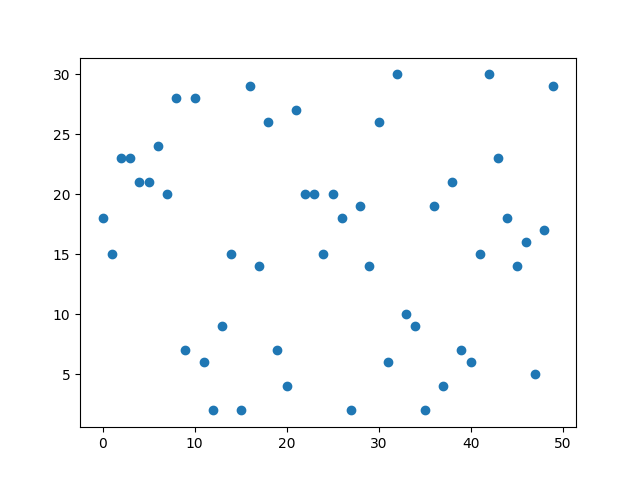
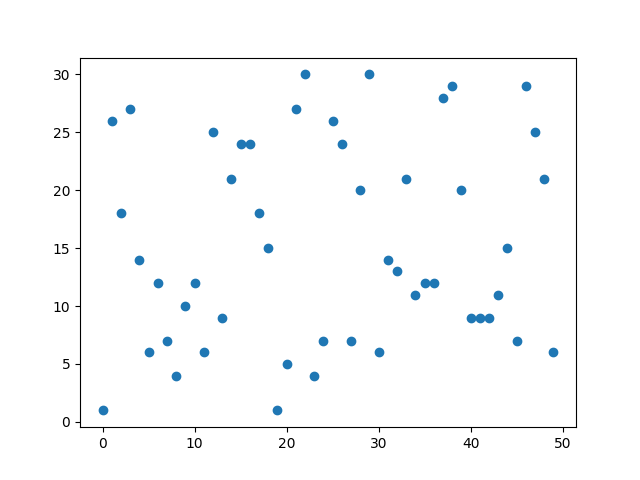
working figure post

diff --git a/app/templates/index.html b/app/templates/index.html
@@ -24,7 +24,7 @@
             
             <div style="padding-right: 6px; padding-left: 6px;" >
                 <form action="{{ url_for('index') }}" method="post">
-                        <input type="text" name="title">
+                        <input type="text" name="title" value={{ title }}>
                         <input type="submit">
                     </form>
             </div>

diff --git a/app/routes.py b/app/routes.py
@@ -60,16 +60,15 @@ def plot_svg(num_x_points=2):
 @app.route('/index', methods=['GET', 'POST'])
 def index():
     form = InputForm(request.form)
+
     if request.method == 'POST':
         sometext="post"
-        #plt.close()
+        title=request.form['title']
+
         fig = Figure()
-        #axis = fig.add_subplot(1, 1, 1)
         x_points = range(50)
         plt.scatter(x_points, [random.randint(1, 30) for x in x_points])
-        plt.savefig( "app/static/plot.png", format='png')
-        plt.title(request.form['title'], fontsize=40)
-        #axis.set_xlabel("x")
+        plt.title(title, fontsize=40)
 
         figfile = io.BytesIO()
         plt.savefig(figfile, format='png')
@@ -78,7 +77,9 @@ def index():
         figure_url = base64.b64encode(figfile.getvalue()).decode('utf-8')
 
     else:
+        
+        title=None
         sometext="get"
         figure_url=None
 
-    return render_template('index.html', figure_url=figure_url, form=form, sometext=sometext)
+    return render_template('index.html', figure_url=figure_url, form=form, sometext=sometext, title=title)
